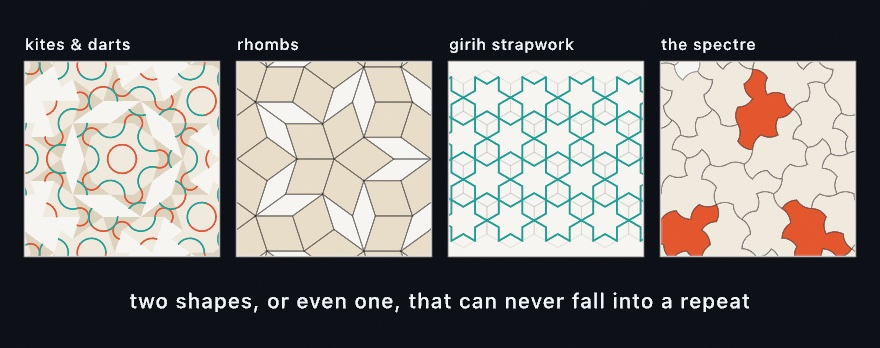
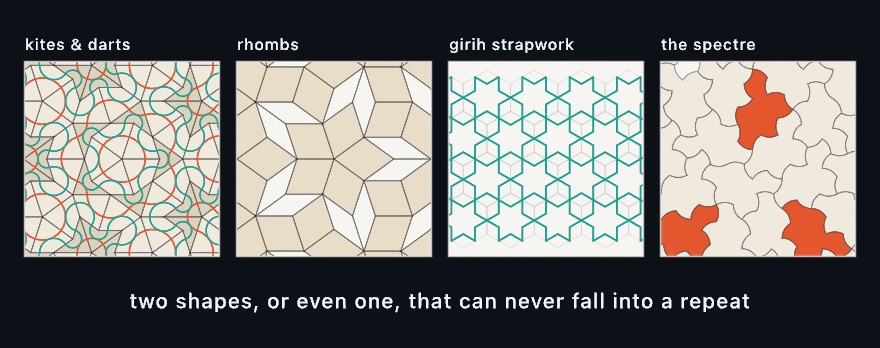
A kite-and-dart tiling covers its patch. Chapter 7's first panel showed bare paper through about a quarter of the kites and darts, with arcs running along the holes' edges, and the picture read named drawShape's fill of a concave dart as the suspect. The fill was right: drawShape triangulates the da
The rule is the classic one now. With A the half-kite's 36-degree apex and Q one short edge down the leg A..C, Q is where the bisector of the angle at B lands, so B..Q equals B..C, and B, Q, C with B, Q, P (P one short edge from B up the leg B..A) are two unit half-kites sharing the axis B..Q, a whole small kite, while P, A, Q is the half-dart with short legs of 1/phi and the long side A..Q; the three areas sum to the parent's. Over the panel: no orphan, full coverage, 51 kites to 24 darts; over a larger patch the ratio is 1.64 to the golden 1.618, no edge is shared by more than two tiles, and only the seven legal corner arrangements occur. The arcs then wanted their own settings to meet across every edge, the kite's at nose and tail at 1/phi of the adjacent edge and the dart's at tip and reflex corner at 1/phi squared; the continuity test pins them. penroseTilesCoverThePatchOnce samples the patch's interior on both variants and demands every point lie in exactly one tile, which the old rule fails at a third of them and the crack test never saw, since a dropped half leaves every remaining edge shared by two tiles at most. The figure strokes the kites' outlines as the rhombs' panel does, so both shapes can be picked out under the arcs; both themes are re-rendered, the penrose snapshot is re-recorded with the rest of the suite unmoved, and the Penrose example's media is re-rendered under the corrected generator.
[…]

Changed region(s): [[0.0307, 0.1724, 0.2455, 0.7471]]

diff --git a/Sources/Ollin/Geometry/Penrose.swift b/Sources/Ollin/Geometry/Penrose.swift
@@ -137,9 +137,13 @@ public enum Penrose {
     /// One deflation step for a single half-tile. Children exactly partition
     /// the parent; lengths shrink by 1/phi.
     ///
-    /// P2, with Q and R at the golden sections of the legs:
-    ///   half-kite(A, B, C) -> half-kite(A, Q, R) + half-kite(C, B, Q)
-    ///                         + half-dart(R, C, Q)
+    /// P2, a half written (apex, axis, free) with the apex the 36-degree
+    /// corner of a half-kite and the 108-degree corner of a half-dart:
+    ///   half-kite(A, C, B) -> half-kite(B, Q, C) + half-kite(B, Q, P)
+    ///                         + half-dart(P, A, Q)
+    ///     with Q on A..C one short edge from A (where the bisector of the
+    ///     angle at B lands, so BQ = BC) and P on B..A one short edge from
+    ///     B. The two half-kites share the axis B..Q, a whole small kite.
     ///   half-dart(A, B, C) -> half-kite(B, A, P) + half-dart(P, C, A)
     ///     with P at the golden section of the base B..C.
     ///
@@ -154,11 +158,11 @@ public enum Penrose {
         switch (variant, h.acute) {
         case (.kitesAndDarts, true):
             let q = h.apex + (h.axis - h.apex) * inv
-            let r = h.apex + (h.free - h.apex) * inv
+            let p = h.free + (h.apex - h.free) * inv
             return [
-                Half(acute: true, apex: h.apex, axis: q, free: r),
-                Half(acute: true, apex: h.free, axis: h.axis, free: q),
-                Half(acute: false, apex: r, axis: h.free, free: q),
+                Half(acute: true, apex: h.free, axis: q, free: h.axis),
+                Half(acute: true, apex: h.free, axis: q, free: p),
+                Half(acute: false, apex: p, axis: h.apex, free: q),
             ]
         case (.kitesAndDarts, false):
             let p = h.axis + (h.free - h.axis) * inv
@@ -272,10 +276,10 @@ public enum Penrose {
         switch tile.kind {
         case .kite:
             corners = (0, 2)
-            fractions = (inv * inv, inv)   // nose, then the 144-degree corner
+            fractions = (inv, inv)   // nose, then the 144-degree corner
         case .dart:
-            corners = (0, 2)
-            fractions = (inv * inv, inv * inv)   // reflex corner, then tail
+            corners = (2, 0)
+            fractions = (inv * inv, inv * inv)   // tip, then the reflex corner
         case .thick:
             corners = (0, 2)
             fractions = (inv * inv, inv * inv)

diff --git a/Tests/OllinTests/AperiodicTilingTests.swift b/Tests/OllinTests/AperiodicTilingTests.swift
@@ -95,6 +95,46 @@ struct AperiodicTilingTests {
         }
     }
 
+    /// The merged tiles cover the patch with no holes and no overlaps. The
+    /// edge test above passes a tiling with holes in it, since a dropped half
+    /// leaves every remaining edge shared by at most two tiles, and the
+    /// kite-and-dart rule once dropped a third of its halves that way (a
+    /// half-kite split into a piece that was no half-kite, so `merge` found
+    /// no partner for it and the paper showed through). Every point of the
+    /// patch's interior has to lie inside exactly one tile.
+    @Test func penroseTilesCoverThePatchOnce() {
+        for variant in Penrose.Variant.allCases {
+            let tiles = Penrose.tiles(variant, in: bounds, tileEdge: 30)
+            var holes = 0, overlaps = 0
+            for i in 0..<40 {
+                for j in 0..<40 {
+                    // The central three fifths, off any lattice line.
+                    let p = Vector2(80 + Double(i) * 6 + 0.3819, 80 + Double(j) * 6 + 0.6180)
+                    let inside = tiles.count { contains($0.points, p) }
+                    if inside == 0 { holes += 1 }
+                    if inside > 1 { overlaps += 1 }
+                }
+            }
+            #expect(holes == 0, "\(variant): \(holes) of 1600 points lie in no tile")
+            #expect(overlaps <= 2, "\(variant): \(overlaps) of 1600 points lie in two tiles")
+        }
+    }
+
+    /// Even-odd point-in-polygon by ray casting.
+    private func contains(_ polygon: [Vector2], _ p: Vector2) -> Bool {
+        var inside = false
+        var j = polygon.count - 1
+        for i in polygon.indices {
+            let a = polygon[i], b = polygon[j]
+            if (a.y > p.y) != (b.y > p.y),
+               p.x < (b.x - a.x) * (p.y - a.y) / (b.y - a.y) + a.x {
+                inside.toggle()
+            }
+            j = i
+        }
+        return inside
+    }
+
     @Test func penroseKindRatioApproachesGolden() {
         // In the limit, kites outnumber darts (and thick rhombs thin ones) by
         // the golden ratio. A finite patch sits near it.

diff --git a/Guide/Figures/07-Tiles/AperiodicTiles.swift b/Guide/Figures/07-Tiles/AperiodicTiles.swift
@@ -47,6 +47,11 @@ final class AperiodicTiles: Sketch {
                 drawShape(tile.shape)
             }
             noFill()
+            stroke(tileInk.withAlpha(0.55))
+            strokeWeight(1)
+            for tile in tiles {
+                drawShape(tile.shape)
+            }
             strokeWeight(1.6)
             for tile in tiles {
                 for (i, arc) in tile.arcs.enumerated() {

diff --git a/CHANGELOG.md b/CHANGELOG.md
@@ -44,6 +44,8 @@ Notable changes to Ollin, newest first. The format follows [Keep a Changelog](ht
 
 ### Fixed
 
+- **A kite-and-dart tiling covers its patch.** `Penrose.tiles(.kitesAndDarts, in:tileEdge:)` split each half-kite into a piece that was no half-kite, so a third of the halves found no mirror partner and were dropped, and the tiling came back with bare patches through it (about 31% of a panel) and too few kites. The split is the classic one now, two half-kites and a half-dart, each tiling covers its patch once, the kites outnumber the darts by the golden ratio, and the arcs meet across every edge; a test that samples the patch's interior pins the coverage the edge test could not see. The rhombs were right all along. [Aperiodic tilings](Docs/Drawing/AperiodicTilings.md)
+
 - **A physics snapshot keeps a body's own mass and center of mass.** A body given a mass or a center of mass rather than one worked out from its collider, as a scene's `physics:mass` and `physics:centerOfMass` give them through the import, came back from `restore(_:)` at the mass its shape and density make, balanced at its middle. The snapshot now writes both, in format 6, and reads formats 4 and 5 as before. [Physics3D](Docs/Simulation/Physics3D.md)
 
 - **A small chance in a simulation is the chance it says.** The forest fire's lightning and growth, the Ising model's flips, and a Schelling agent's move compared a probability against a float hash that lands on exactly 0 about once in 1,800 rolls, so any chance below about 5e-4 fired at that floor instead. The forest fire's default lightning struck about 90 times too often, so the default ratio of growth to lightning was near 28 to 1 rather than 2,500 to 1, and a magnet below its critical temperature kept flipping spins it should have held. The rolls now draw on steps of 2^-24, so a lightning of 1e-4 lights 1e-4 of the forest and a cold magnet holds still. A run with these sims under a seed draws a different run from before. [Effects](Docs/Drawing/Effects.md#simfield)
